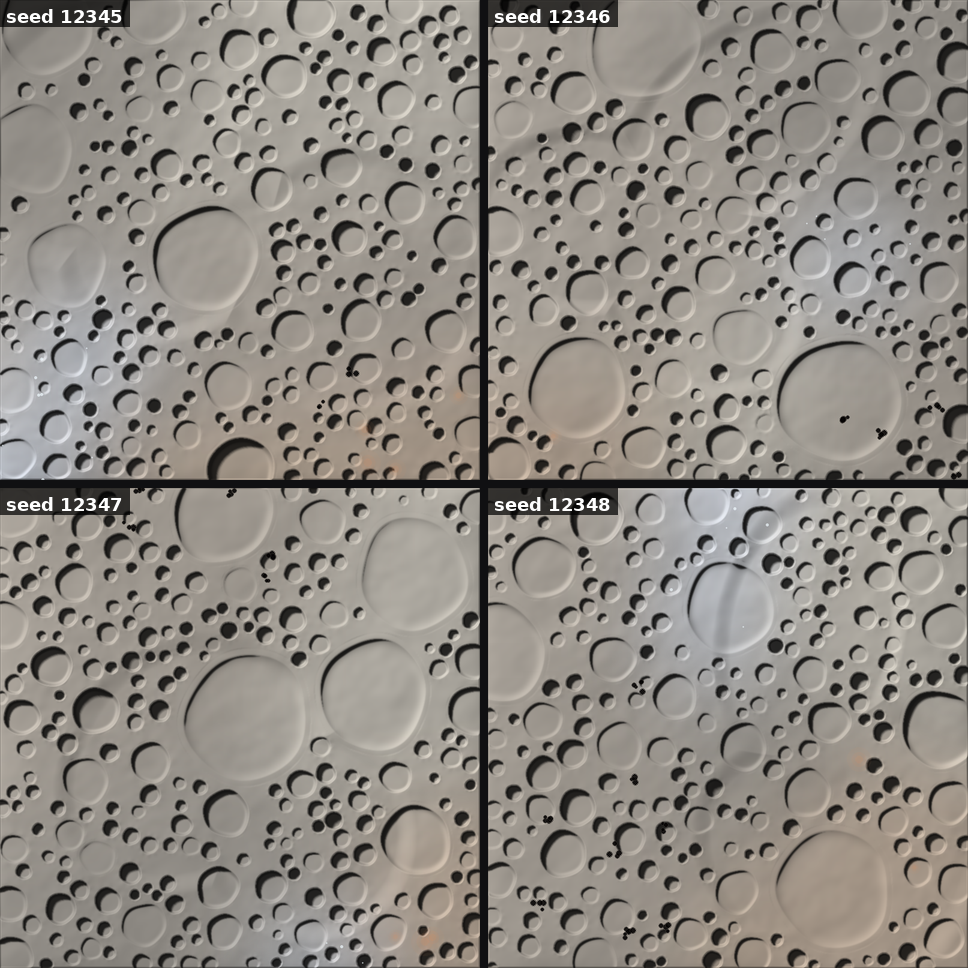
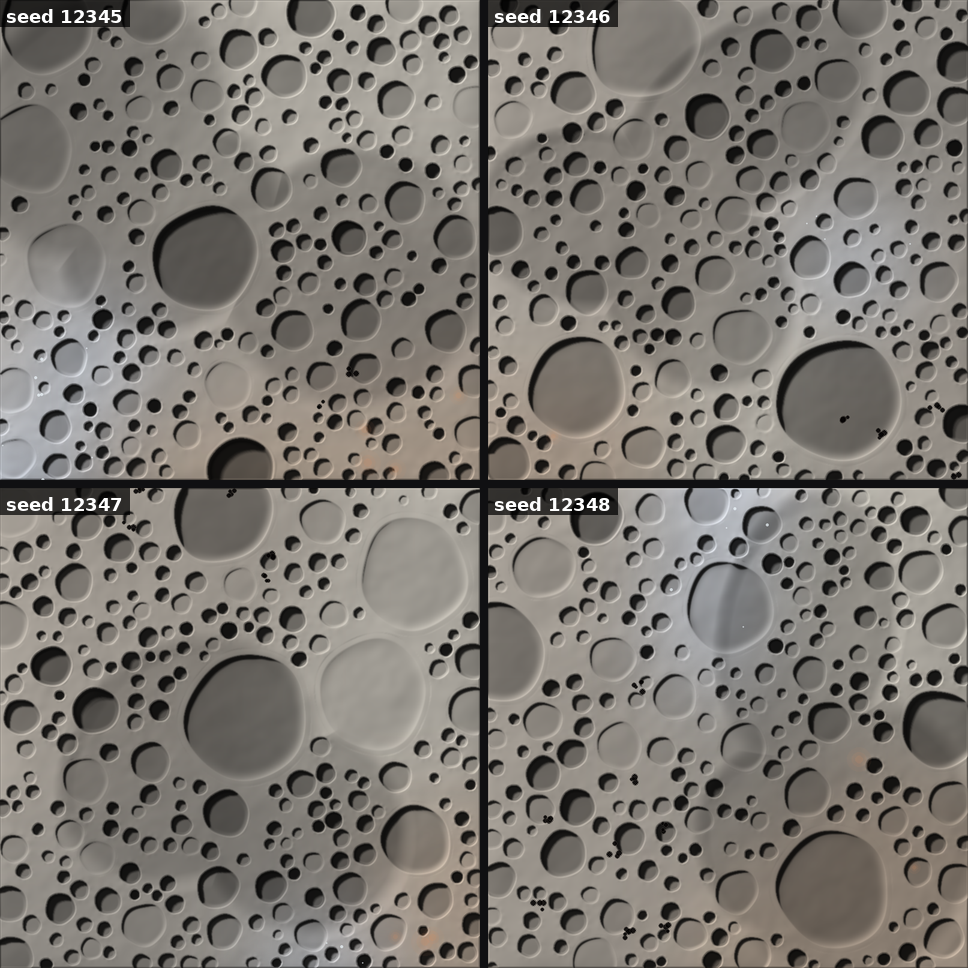
prototype: full depth freedom + crater-floor AO
Two requests:

  1. "no deep large craters" — true. Big craters were being throttled
     by both `size_factor = 1 - min(0.55, (r-8)/220)` (which scaled depth
     down for large radii) AND per-size `depth_jitter` floors that
     compressed their range. Net effect: r=110 maxed at depth_amp ~-0.36
     while r=20 reached -0.68. Removed both. All craters now draw depth
     from the same Beta(2.2, 2.2)*1.6 + 0.15 distribution, so any radius
     can be shallow OR deep. Same total absolute-depth range across sizes.

  2. "make crater bottom a bit darker than surrounding soil for r<100" —
     added an ambient-occlusion pass in colourise() that darkens any
     pixel sitting below the FBM baseline (i.e., inside a crater bowl)
     proportional to its depth. ao = 1 - clip(depth_below * 0.85, 0, 0.45).
     Naturally affects all craters — bigger shallow ones get a touch of
     darkening, smaller deep ones get more, and shallow regional FBM
     dips get nothing because depth_below stays near zero. No need to
     special-case by radius.

https://claude.ai/code/session_014xZZbBkCGkgHdGrMSpJjDx

diff --git a/prototypes/planet_visuals/generate.py b/prototypes/planet_visuals/generate.py
@@ -291,18 +291,15 @@ def apply_craters(height, craters, rng=None):
         # are shallow flat dishes and some are deep enough that their
         # floors fall into cast shadow — the variety the user asked for.
         # Larger craters trend shallower (filled / complex morphology).
-        size_factor = 1.0 - min(0.55, (c.r - 8) / 220.0)
-        # Beta distribution for a smooth continuous range, fat in the
-        # middle. Big craters need a stronger floor on depth_jitter so
-        # they read as proper carved bowls; otherwise a shallow large
-        # crater looks like a soft circular patch on the surface.
+        # Per-crater depth, fully independent of radius — every crater
+        # picks a depth from the same Beta distribution, so big craters
+        # have the same chance of being deep as small ones. (Old code
+        # had a size_factor and per-size jitter floors that compressed
+        # big craters into the shallow band, which is why no deep large
+        # craters appeared.)
         depth_jitter = float(rng.beta(2.2, 2.2)) * 1.6 + 0.15  # 0.15..1.75
-        if c.r > 60:
-            depth_jitter = max(depth_jitter, 1.05)
-        elif c.r > 35:
-            depth_jitter = max(depth_jitter, 0.80)
         sharp = 1.0 - c.age * 0.7
-        depth_amp = -0.40 * sharp * size_factor * depth_jitter
+        depth_amp = -0.42 * sharp * depth_jitter
         # Rim is *small* — only ~5% of depth amplitude.
         rim_amp = 0.05 * sharp * abs(depth_amp)
 
@@ -500,6 +497,17 @@ def colourise(height, mare_mask, hillsh, arch_pix, rng, cast_mask=None,
     sh = hillsh[..., None]
     contrast_arr = contrast_blur[..., None]
     shaded = albedo * (1.0 - contrast_arr + contrast_arr * (0.35 + 1.30 * sh))
+
+    # Crater-floor ambient occlusion: darken any pixel that sits below
+    # the FBM baseline (i.e. is inside a crater bowl) proportional to
+    # its depth. Even when not in cast shadow, a crater floor gets less
+    # ambient / scattered light than the open surrounding plain. This
+    # is the "sense of depth" effect — a crater bottom should always
+    # read a bit darker than the surrounding soil.
+    if albedo_height is not None:
+        depth_below = np.clip(albedo_height - height, 0.0, 1.5)
+        ao = 1.0 - np.clip(depth_below * 0.85, 0.0, 0.45)
+        shaded = shaded * ao[..., None]
 
     # Cast shadows: pixels the sun can't directly reach get darkened to
     # ~22% of their lit value. Not pure black — real lunar shadows still
